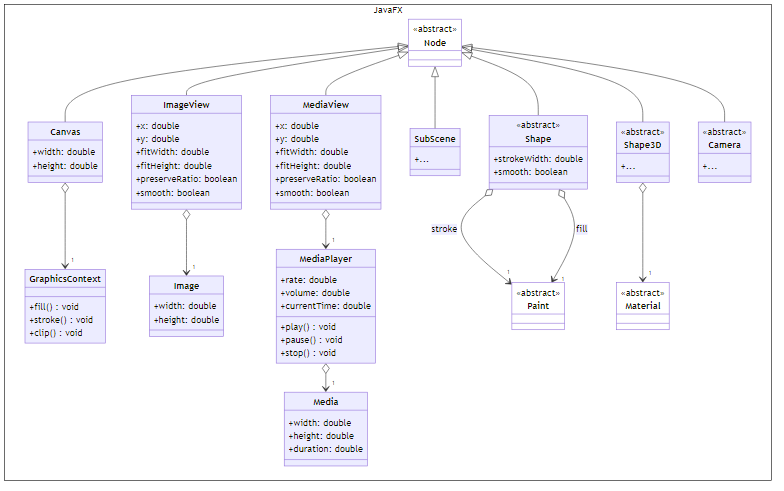
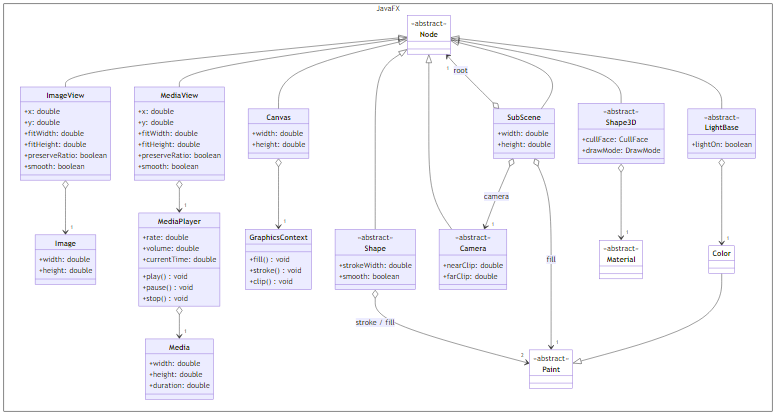
add javafx 3D node types

diff --git a/Grundlagen/JavaFX.md b/Grundlagen/JavaFX.md
@@ -2,7 +2,7 @@
 
 Dieses Dokument beschreibt, wie man mittels JavaFX grafische Benutzerschnittstellen entwickelt.
 
-Basics:
+Grundelemente
 
 * `Application` - Basisklasse einer JavaFX-Anwendung
 * `Stage` - Fenster zur Darstellung von Inhalten
@@ -10,66 +10,71 @@ Basics:
 * `Parent` - Der eigentliche Inhalt des Fensters
 * `Node` - Basisklasse für alle Arten von Inhalten
 
-Helpers:
+Hilfselemente
 
-* `Color` - *TODO*
-* `Paint` - *TODO*
-* `Material` - *TODO*
-* `Font` - *TODO*
+* `Paint` - Darstellung von Farben und Farbverläufen
+* `Material` - Darstellung von visuellen Materialeigenschaften
+* `Font` - Darstellung von Schriftarten und deren Eigenschaften
 
-Nodes:
+Knoten
 
 * `Canvas` - Durchführung von Zeichenoperationen
 * `ImageView` - Anzeigen von Bildern
 * `MediaView` - Abspielen von Videos und Sounds
-* `SubScene` - *TODO*
 * `Shape`- 2D-Formen wie Rechtecke und Kreise
 * `Shape3D` - 3D-Formen wie Würfel und Kugeln
 * `Camera` - Kameras für das Rendering von 3D-Formen
+* `LightBase` - Beleuchtung für 3D-Szenen
+* `SubScene` - Container für 3D-Szenen mit Kamera
 
-2D-Shapes:
+2D-Formen
 
-* `Line` - *TODO*
-* `Polyline` - *TODO*
-* `Rectangle` - *TODO*
-* `Polygon` - *TODO*
-* `Circle` - *TODO*
-* `Ellipse` - *TODO*
-* `Text` - *TODO*
+* `Line` - Gerade Linie zwischen zwei Punkten
+* `Polyline` - Linienzug zwischen zwei oder mehr Punkten
+* `Rectangle` - Rechteckt definiert durch Höhe und Breite
+* `Polygon` - Vieleck definiert durch eine Reihe von Punkten
+* `Circle` - Kreis definiert durch Mittelpunkt und Radius
+* `Ellipse` - Ellipse definiert durch Mittelpunkt und Radii
+* `Text` - Text definiert durch Zeichenkette und Schriftart
 
-3D-Shapes:
+3D-Formen
 
 * `Box` - Wurfel-Geometrie mit Länge, Höhe und Tiefe
 * `Cylinder` - Zylinder-Geometrie mit Radius und Höhe
 * `Sphere` - Kugel-Geometrie mit Radius
 * `MeshView` - Beliebige Form bestehend aus Dreiecken
 
-Cameras:
+Kameras
 
 * `ParallelCamera` - Orthografische Projektion der Formen
 * `PerspectiveCamera` - Perspektifische Projektion der Formen
 
-Parents:
+Lichter
+
+* `AmbientLight` - Umgebungslight ohne spezielle Richtung
+* `PointLight` - Punktlicht ausgehend von einem Punkt im Raum
+
+Eltern
 
 * `Group` - Gruppierung von Kindknoten
 * `Region` - Gerahmte Fläche für Kindknoten
 * `WebView` - Anzeige von HTML-Seiten
 
-Regions:
+Regionen
 
-* `Pane` - *TODO*
-* `Chart` - *TODO*
-* `Axis` - *TODO*
-* `Control` - *TODO*
+* `Pane` - Verschiedene Layouts für Kindelemente
+* `Chart` - Kreis- und XY-Liniendiagramme
+* `Axis` - Die beiden Axen von XY-Liniendiagrammen
+* `Control` - Klassische Steuerelemente einer GUI-Anwendung
 
-Panes:
+Anordnungen
 
-* `BorderPane` - *TODO*
-* `GridPane` - *TODO*
-* `StackPane` - *TODO*
-* `FlowPane` - *TODO*
+* `BorderPane` - Rahmenlayout mit einem Flexiblem Zentralbereich
+* `GridPane` - Rasterlayout mit definierten Spalten und Zeilen
+* `StackPane` - Stapellayout mit einer definierten Stapelrichtung
+* `FlowPane` - Flusslayout mit primärer und sekundärer Flussrichtung
 
-Controls:
+Steuerelemente
 
 * `ScrollPane`, `SplitPane`, `TabPane` und `Pagination`
 * `MenuBar`, `ToolBar` und `ButtonBar`
@@ -79,9 +84,9 @@ Controls:
 * `ComboBox`, `DatePicker` und `ColorPicker`
 * `Spinner`, `Slider`, `ProgressIndictor` und `ChoiceBox`
 
-## 1. Basics
+## 1. Grundelemente
 
-Das 
+TODO
 
 ![](../Grafiken/JavaFX/Stage.svg)
 
@@ -93,15 +98,18 @@ import javafx.stage.Stage;
 
 // Programmklasse
 public class Program extends Application {
+
     // Hauptroutine
     public static void main(String[] args) {
         Application.launch(args);
     }
+
     // Startmethode
     @Override
     public void start(Stage primaryStage) {
         ...
     }
+
 }
 ```
 
@@ -138,107 +146,117 @@ primaryStage.setScene(scene);
 primaryStage.show();
 ```
 
-## 2. Helpers
+## 2. Hilfselemente
 
 TODO
 
 ![](../Grafiken/JavaFX/Paint.svg)
 
-## 3. Nodes
+## 3. Knoten
 
 TODO
 
 ![](../Grafiken/JavaFX/Node.svg)
 
-## 4. 2D-Shapes
+## 4. 2D-Formen
 
 TODO
 
 ![](../Grafiken/JavaFX/Shape.svg)
 
-## 5. 3D-Shapes
+## 5. 3D-Formen
 
 TODO
 
-## 6. Cameras
+![](../Grafiken/JavaFX/Shape3D.svg)
+
+## 6. Kameras
 
 TODO
 
-## 7. Parents
+![](../Grafiken/JavaFX/Camera.svg)
+
+## 7. Lichter
+
+TODO
+
+![](../Grafiken/JavaFX/Light.svg)
+
+## 8. Eltern
 
 TODO
 
 ![](../Grafiken/JavaFX/Parent.svg)
 
-## 8. Regions
+## 9. Regionen
 
 TODO
 
 ![](../Grafiken/JavaFX/Region.svg)
 
-## 9. Panes
+## 10. Anordnungen
 
 TODO
 
 ![](../Grafiken/JavaFX/Pane.svg)
 
-### 9.1. `BorderPane`
+### 10.1. `BorderPane`
 
 TODO
 
-### 9.2. `GridPane`
+### 10.2. `GridPane`
 
 TODO
 
-### 9.3. `StackPane`
+### 10.3. `StackPane`
 
 TODO
 
-### 9.4. `FlowPane`
+### 10.4. `FlowPane`
 
 TODO
 
-## 10. Controls
+## 11. Steuerelemente
 
 TODO
 
-### 10.1. `ScrollPane`, `SplitPane`, `TabPane` und `Pagination`
+### 11.1. `ScrollPane`, `SplitPane`, `TabPane` und `Pagination`
 
 TODO
 
 ![](../Grafiken/JavaFX/Control.Pane.svg)
 
-### 10.2. `MenuBar`, `ToolBar` und `ButtonBar`
+### 11.2. `MenuBar`, `ToolBar` und `ButtonBar`
 
 TODO
 
 ![](../Grafiken/JavaFX/Control.Bar.svg)
 
-### 10.3. `ListView`, `TableView`, `TreeView` und `TreeTableView`
+### 11.3. `ListView`, `TableView`, `TreeView` und `TreeTableView`
 
 TODO
 
 ![](../Grafiken/JavaFX/Control.View.svg)
 
-### 10.4. `Label`, `Button`, `ToggleButton`, `MenuButton`, `Hyperlink` und `CheckBox`
+### 11.4. `Label`, `Button`, `ToggleButton`, `MenuButton`, `Hyperlink` und `CheckBox`
 
 TODO
 
 ![](../Grafiken/JavaFX/Control.Labeled.svg)
 
-### 10.5. `TextField` und `TextArea`
+### 11.5. `TextField` und `TextArea`
 
 TODO
 
 ![](../Grafiken/JavaFX/Control.TextInput.svg)
 
-### 10.6. `ComboBox`, `DatePicker` und `ColorPicker`
+### 11.6. `ComboBox`, `DatePicker` und `ColorPicker`
 
 TODO
 
 ![](../Grafiken/JavaFX/Control.ComboBox.svg)
 
-### 10.7. `Spinner`, `Slider`, `ProgressIndictor` und `ChoiceBox`
+### 11.7. `Spinner`, `Slider`, `ProgressIndictor` und `ChoiceBox`
 
 TODO
 
